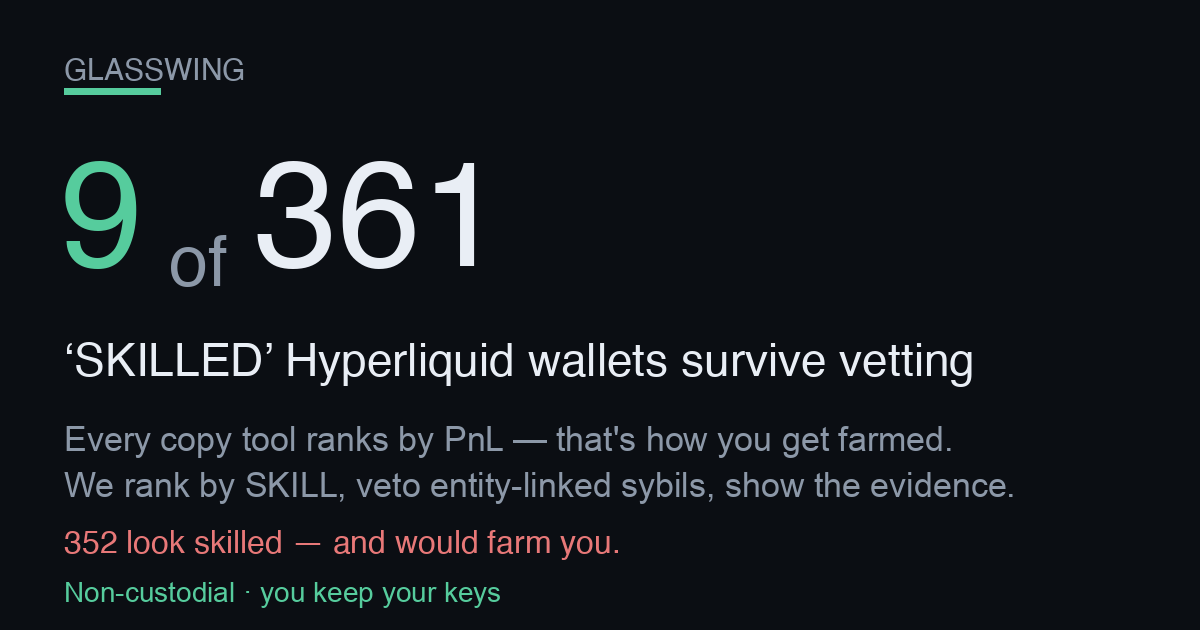
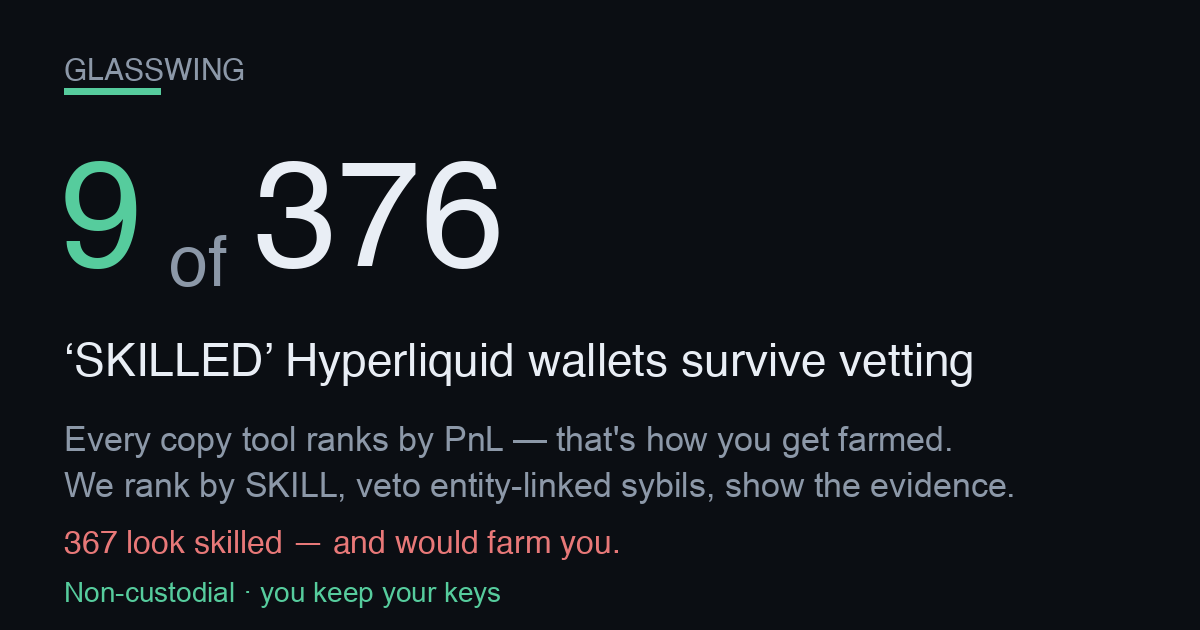
publish funnel 2026-09-11T08:26:30Z

Changed region(s): [[0.2775, 0.2413, 0.4317, 0.4524], [0.0617, 0.8444, 0.0925, 0.8746]]

diff --git a/screener.html b/screener.html
@@ -57,4 +57,4 @@ padding:11px 22px;font-size:15px;font-weight:800;border:1px solid var(--good)}
 footer{margin-top:34px;color:var(--muted);font-size:12px;line-height:1.6;
 border-top:1px solid var(--line);padding-top:16px}
 footer b{color:var(--ink)}
-</style></head><body><div class="wrap"><div class="nav"><a href="./index.html">&larr; Glasswing home</a><span class="sep">|</span><span>Edge Screener</span><span class="sep">|</span><a href="./dex.html">Copy a vetted leader</a></div><div class="hero"><h1>Hyperliquid Edge Screener</h1><div class="sub">Where&rsquo;s the carry, where a maker earns, and what&rsquo;s moving on Hyperliquid &mdash; live, computed from the public API. Bookmark it. Every number below is real and timestamped.</div><div class="stamp">Data as of <b>2026-09-09T12:10:52Z</b> &middot; rendered 2026-09-09T12:10:52Z &middot; 178 perps &middot; 104 HIP-3 (xyz) markets scanned</div></div><h2>Top funding &mdash; the carry table <span class="hint">perps ranked by annualized funding. Positive = longs pay shorts (a delta-neutral short earns it).</span></h2><div class="tblwrap"><table><thead><tr><th>Coin</th><th>Funding / hr</th><th>Annualized</th><th>Who pays</th><th>Open interest</th><th>24h volume</th></tr></thead><tbody><tr><td class="coin">ACE</td><td>-0.0246%</td><td class="neg">-216.0%</td><td><span class="tag shorts">shorts pay</span></td><td>$716K</td><td>$953K</td></tr><tr><td class="coin">GRASS</td><td>+0.0115%</td><td class="pos">+101.0%</td><td><span class="tag longs">longs pay</span></td><td>$12.0M</td><td>$2.7M</td></tr><tr><td class="coin">ANIME<span class="tag thin" title="Low liquidity/OI &mdash; ADL &amp; liquidation risk; funding can flip">&#9888; thin</span></td><td>-0.0095%</td><td class="neg">-83.6%</td><td><span class="tag shorts">shorts pay</span></td><td>$251K</td><td>$193K</td></tr><tr><td class="coin">MINA</td><td>-0.0090%</td><td class="neg">-79.0%</td><td><span class="tag shorts">shorts pay</span></td><td>$3.1M</td><td>$519K</td></tr><tr><td class="coin">VVV</td><td>+0.0090%</td><td class="pos">+78.6%</td><td><span class="tag longs">longs pay</span></td><td>$78.6M</td><td>$155.3M</td></tr><tr><td class="coin">SOPH</td><td>-0.0080%</td><td class="neg">-70.1%</td><td><span class="tag shorts">shorts pay</span></td><td>$1.5M</td><td>$11.2M</td></tr><tr><td class="coin">2Z</td><td>-0.0073%</td><td class="neg">-63.9%</td><td><span class="tag shorts">shorts pay</span></td><td>$1.3M</td><td>$251K</td></tr><tr><td class="coin">ZORA</td><td>-0.0070%</td><td class="neg">-61.3%</td><td><span class="tag shorts">shorts pay</span></td><td>$1.8M</td><td>$829K</td></tr><tr><td class="coin">MEGA</td><td>+0.0063%</td><td class="pos">+55.7%</td><td><span class="tag longs">longs pay</span></td><td>$4.8M</td><td>$2.3M</td></tr><tr><td class="coin">YGG<span class="tag thin" title="Low liquidity/OI &mdash; ADL &amp; liquidation risk; funding can flip">&#9888; thin</span></td><td>-0.0060%</td><td class="neg">-52.3%</td><td><span class="tag shorts">shorts pay</span></td><td>$267K</td><td>$146K</td></tr><tr><td class="coin">GRIFFAIN<span class="tag thin" title="Low liquidity/OI &mdash; ADL &amp; liquidation risk; funding can flip">&#9888; thin</span></td><td>+0.0059%</td><td class="pos">+51.7%</td><td><span class="tag longs">longs pay</span></td><td>$781K</td><td>$24K</td></tr><tr><td class="coin">PURR</td><td>+0.0056%</td><td class="pos">+49.2%</td><td><span class="tag longs">longs pay</span></td><td>$12.0M</td><td>$1.6M</td></tr></tbody></table></div><h2>Widest HIP-3 spreads &mdash; where a maker earns <span class="hint">xyz: markets by impact-price spread vs the ~0.6bps round-trip fee. A resting limit order captures the gap.</span></h2><div class="tblwrap"><table><thead><tr><th>Market</th><th>Spread</th><th>vs 0.6bps fee</th><th>Mid</th><th>24h volume</th></tr></thead><tbody><tr><td class="coin">xyz:BIRD<span class="tag gm">growth</span></td><td>216.2 bps</td><td class="pos">+215.6 bps</td><td>2.5118</td><td>$16K</td></tr><tr><td class="coin">xyz:GIGADEV<span class="tag gm">growth</span></td><td>148.1 bps</td><td class="pos">+147.5 bps</td><td>56.6045</td><td>$340K</td></tr><tr><td class="coin">xyz:MAGS<span class="tag gm">growth</span></td><td>145.1 bps</td><td class="pos">+144.5 bps</td><td>69.4060</td><td>$36K</td></tr><tr><td class="coin">xyz:NCLD<span class="tag gm">growth</span></td><td>124.5 bps</td><td class="pos">+123.9 bps</td><td>25.7545</td><td>$274K</td></tr><tr><td class="coin">xyz:XBI<span class="tag gm">growth</span></td><td>108.9 bps</td><td class="pos">+108.3 bps</td><td>162.2000</td><td>$59K</td></tr><tr><td class="coin">xyz:SHEIN<span class="tag gm">growth</span></td><td>83.1 bps</td><td class="pos">+82.5 bps</td><td>5.1838</td><td>$324K</td></tr><tr><td class="coin">xyz:EBAY<span class="tag gm">growth</span></td><td>69.3 bps</td><td class="pos">+68.7 bps</td><td>104.2200</td><td>$235K</td></tr><tr><td class="coin">xyz:NET<span class="tag gm">growth</span></td><td>62.1 bps</td><td class="pos">+61.5 bps</td><td>293.3300</td><td>$118K</td></tr><tr><td class="coin">xyz:PURRDAT</td><td>54.4 bps</td><td class="pos">+53.8 bps</td><td>12.3275</td><td>$2.0M</td></tr><tr><td class="coin">xyz:BMNR</td><td>53.2 bps</td><td class="pos">+52.6 bps</td><td>25.2335</td><td>$160K</td></tr><tr><td class="coin">xyz:RDDT<span class="tag gm">growth</span></td><td>47.7 bps</td><td class="pos">+47.1 bps</td><td>150.0650</td><td>$187K</td></tr><tr><td class="coin">xyz:SOFTBANK<span class="tag gm">growth</span></td><td>44.3 bps</td><td class="pos">+43.7 bps</td><td>43.5080</td><td>$2.2M</td></tr></tbody></table></div><h2>Momentum &amp; volume &mdash; what&rsquo;s moving <span class="hint">perps by 24h volume with the 24h price change (mark vs prior-day).</span></h2><div class="tblwrap"><table><thead><tr><th>Coin</th><th>24h volume</th><th>24h change</th><th>Mark</th></tr></thead><tbody><tr><td class="coin">BTC</td><td>$2.30B</td><td class="pos">+1.57%</td><td>79,406.00</td></tr><tr><td class="coin">ETH</td><td>$1.09B</td><td class="pos">+1.34%</td><td>2,502.30</td></tr><tr><td class="coin">HYPE</td><td>$402.3M</td><td class="pos">+4.74%</td><td>86.6030</td></tr><tr><td class="coin">ZEC</td><td>$383.6M</td><td class="pos">+10.18%</td><td>1,268.30</td></tr><tr><td class="coin">SOL</td><td>$184.0M</td><td class="pos">+1.82%</td><td>104.3700</td></tr><tr><td class="coin">VVV</td><td>$155.3M</td><td class="pos">+43.86%</td><td>26.9070</td></tr><tr><td class="coin">PONS</td><td>$101.4M</td><td class="pos">+4.38%</td><td>0.77558</td></tr><tr><td class="coin">LIT</td><td>$84.7M</td><td class="pos">+9.27%</td><td>5.1224</td></tr><tr><td class="coin">PUMP</td><td>$75.3M</td><td class="pos">+7.45%</td><td>0.004602</td></tr><tr><td class="coin">NEAR</td><td>$69.9M</td><td class="pos">+14.74%</td><td>2.6111</td></tr><tr><td class="coin">XRP</td><td>$69.3M</td><td class="pos">+2.96%</td><td>1.4290</td></tr><tr><td class="coin">CASHCAT</td><td>$29.5M</td><td class="pos">+5.24%</td><td>0.18534</td></tr></tbody></table></div><div class="cta"><h2>These are the opportunities. Now copy the people who trade them.</h2><p class="lead">Spotting the carry and the spreads is the easy part &mdash; sizing, timing and risk are where most traders bleed. Copy the <b>skill-vetted</b> Hyperliquid leaders who actually trade these edges. Non-custodial: <b>you keep your keys and your funds</b> the entire time.</p><div class="row"><a class="btn" href="./index.html">See the vetted leaders &rarr;</a><a class="btn ghost" href="./dex.html">Start copying (non-custodial) &rarr;</a></div><div class="nc"><b>Non-custodial &amp; honest:</b> we never hold your keys or funds. Copying routes through a <b>0.01%</b> (1bp) on-chain builder fee &mdash; that is the only thing we ever charge, and it is the same fee shown on the copy page. Nothing on this screener is executed for you; it is information only.</div></div><footer><b>Not financial advice.</b> Funding rates, spreads and volumes are live snapshots that change every block; figures can be stale by the time you act. A high funding rate is <b>not free money</b> &mdash; the biggest rates sit on the thinnest, most crowded books (flagged &#9888; thin), where funding can flip against you and auto-deleveraging (ADL) or liquidation can close your position. &ldquo;Spread&rdquo; here is the impact-price spread (a conservative maker signal), not a guaranteed fill. HIP-3 markets are experimental. Do your own research and size responsibly. Glasswing is <b>non-custodial</b> &mdash; we never take custody of your keys or funds.</footer></div></body></html>
+</style></head><body><div class="wrap"><div class="nav"><a href="./index.html">&larr; Glasswing home</a><span class="sep">|</span><span>Edge Screener</span><span class="sep">|</span><a href="./dex.html">Copy a vetted leader</a></div><div class="hero"><h1>Hyperliquid Edge Screener</h1><div class="sub">Where&rsquo;s the carry, where a maker earns, and what&rsquo;s moving on Hyperliquid &mdash; live, computed from the public API. Bookmark it. Every number below is real and timestamped.</div><div class="stamp">Data as of <b>2026-09-11T08:21:07Z</b> &middot; rendered 2026-09-11T08:21:07Z &middot; 178 perps &middot; 104 HIP-3 (xyz) markets scanned</div></div><h2>Top funding &mdash; the carry table <span class="hint">perps ranked by annualized funding. Positive = longs pay shorts (a delta-neutral short earns it).</span></h2><div class="tblwrap"><table><thead><tr><th>Coin</th><th>Funding / hr</th><th>Annualized</th><th>Who pays</th><th>Open interest</th><th>24h volume</th></tr></thead><tbody><tr><td class="coin">ANIME<span class="tag thin" title="Low liquidity/OI &mdash; ADL &amp; liquidation risk; funding can flip">&#9888; thin</span></td><td>-0.0330%</td><td class="neg">-288.7%</td><td><span class="tag shorts">shorts pay</span></td><td>$370K</td><td>$312K</td></tr><tr><td class="coin">YGG<span class="tag thin" title="Low liquidity/OI &mdash; ADL &amp; liquidation risk; funding can flip">&#9888; thin</span></td><td>-0.0094%</td><td class="neg">-82.2%</td><td><span class="tag shorts">shorts pay</span></td><td>$249K</td><td>$76K</td></tr><tr><td class="coin">ACE</td><td>-0.0067%</td><td class="neg">-58.5%</td><td><span class="tag shorts">shorts pay</span></td><td>$569K</td><td>$328K</td></tr><tr><td class="coin">HEMI</td><td>-0.0055%</td><td class="neg">-48.2%</td><td><span class="tag shorts">shorts pay</span></td><td>$1.3M</td><td>$1.1M</td></tr><tr><td class="coin">TRUMP</td><td>-0.0048%</td><td class="neg">-42.1%</td><td><span class="tag shorts">shorts pay</span></td><td>$12.5M</td><td>$6.9M</td></tr><tr><td class="coin">XMR</td><td>+0.0044%</td><td class="pos">+38.7%</td><td><span class="tag longs">longs pay</span></td><td>$69.0M</td><td>$19.7M</td></tr><tr><td class="coin">SOPH</td><td>-0.0042%</td><td class="neg">-36.9%</td><td><span class="tag shorts">shorts pay</span></td><td>$782K</td><td>$692K</td></tr><tr><td class="coin">PONS</td><td>+0.0037%</td><td class="pos">+32.1%</td><td><span class="tag longs">longs pay</span></td><td>$98.8M</td><td>$105.2M</td></tr><tr><td class="coin">STX</td><td>-0.0036%</td><td class="neg">-31.7%</td><td><span class="tag shorts">shorts pay</span></td><td>$1.1M</td><td>$276K</td></tr><tr><td class="coin">MOVE<span class="tag thin" title="Low liquidity/OI &mdash; ADL &amp; liquidation risk; funding can flip">&#9888; thin</span></td><td>-0.0036%</td><td class="neg">-31.6%</td><td><span class="tag shorts">shorts pay</span></td><td>$274K</td><td>$192K</td></tr><tr><td class="coin">ZORA</td><td>-0.0032%</td><td class="neg">-28.1%</td><td><span class="tag shorts">shorts pay</span></td><td>$1.5M</td><td>$455K</td></tr><tr><td class="coin">ALT<span class="tag thin" title="Low liquidity/OI &mdash; ADL &amp; liquidation risk; funding can flip">&#9888; thin</span></td><td>-0.0031%</td><td class="neg">-27.4%</td><td><span class="tag shorts">shorts pay</span></td><td>$798K</td><td>$90K</td></tr></tbody></table></div><h2>Widest HIP-3 spreads &mdash; where a maker earns <span class="hint">xyz: markets by impact-price spread vs the ~0.6bps round-trip fee. A resting limit order captures the gap.</span></h2><div class="tblwrap"><table><thead><tr><th>Market</th><th>Spread</th><th>vs 0.6bps fee</th><th>Mid</th><th>24h volume</th></tr></thead><tbody><tr><td class="coin">xyz:BIRD<span class="tag gm">growth</span></td><td>240.1 bps</td><td class="pos">+239.5 bps</td><td>2.4232</td><td>$61K</td></tr><tr><td class="coin">xyz:GIGADEV<span class="tag gm">growth</span></td><td>153.1 bps</td><td class="pos">+152.5 bps</td><td>54.6050</td><td>$303K</td></tr><tr><td class="coin">xyz:NCLD<span class="tag gm">growth</span></td><td>90.6 bps</td><td class="pos">+90.0 bps</td><td>24.2995</td><td>$174K</td></tr><tr><td class="coin">xyz:SHEIN<span class="tag gm">growth</span></td><td>89.1 bps</td><td class="pos">+88.5 bps</td><td>5.0979</td><td>$523K</td></tr><tr><td class="coin">xyz:NET<span class="tag gm">growth</span></td><td>88.0 bps</td><td class="pos">+87.4 bps</td><td>315.0000</td><td>$427K</td></tr><tr><td class="coin">xyz:XBI<span class="tag gm">growth</span></td><td>78.0 bps</td><td class="pos">+77.4 bps</td><td>157.7450</td><td>$33K</td></tr><tr><td class="coin">xyz:KR200<span class="tag gm">growth</span></td><td>69.2 bps</td><td class="pos">+68.6 bps</td><td>1,089.90</td><td>$498K</td></tr><tr><td class="coin">xyz:SHAZ<span class="tag gm">growth</span></td><td>69.1 bps</td><td class="pos">+68.5 bps</td><td>56.2285</td><td>$1.3M</td></tr><tr><td class="coin">xyz:PURRDAT</td><td>63.9 bps</td><td class="pos">+63.3 bps</td><td>11.1315</td><td>$5.6M</td></tr><tr><td class="coin">xyz:ZM<span class="tag gm">growth</span></td><td>63.0 bps</td><td class="pos">+62.4 bps</td><td>96.3710</td><td>$77K</td></tr><tr><td class="coin">xyz:RDDT<span class="tag gm">growth</span></td><td>59.5 bps</td><td class="pos">+58.9 bps</td><td>155.3300</td><td>$190K</td></tr><tr><td class="coin">xyz:LYTE<span class="tag gm">growth</span></td><td>53.7 bps</td><td class="pos">+53.1 bps</td><td>24.9330</td><td>$100K</td></tr></tbody></table></div><h2>Momentum &amp; volume &mdash; what&rsquo;s moving <span class="hint">perps by 24h volume with the 24h price change (mark vs prior-day).</span></h2><div class="tblwrap"><table><thead><tr><th>Coin</th><th>24h volume</th><th>24h change</th><th>Mark</th></tr></thead><tbody><tr><td class="coin">BTC</td><td>$2.14B</td><td class="neg">-1.19%</td><td>77,206.00</td></tr><tr><td class="coin">ETH</td><td>$1.13B</td><td class="neg">-0.26%</td><td>2,467.10</td></tr><tr><td class="coin">HYPE</td><td>$638.0M</td><td class="neg">-3.99%</td><td>80.0170</td></tr><tr><td class="coin">ZEC</td><td>$613.4M</td><td class="neg">-9.26%</td><td>1,108.90</td></tr><tr><td class="coin">SOL</td><td>$218.4M</td><td class="neg">-1.63%</td><td>99.6100</td></tr><tr><td class="coin">PONS</td><td>$105.2M</td><td class="pos">+4.33%</td><td>0.647675</td></tr><tr><td class="coin">PUMP</td><td>$98.5M</td><td class="neg">-6.49%</td><td>0.0037</td></tr><tr><td class="coin">XRP</td><td>$83.2M</td><td class="neg">-2.23%</td><td>1.3510</td></tr><tr><td class="coin">NEAR</td><td>$61.4M</td><td class="pos">+0.35%</td><td>2.4438</td></tr><tr><td class="coin">LIT</td><td>$50.0M</td><td class="pos">+0.05%</td><td>4.5268</td></tr><tr><td class="coin">VVV</td><td>$33.4M</td><td class="neg">-1.04%</td><td>24.1350</td></tr><tr><td class="coin">ETHFI</td><td>$22.7M</td><td class="pos">+7.06%</td><td>0.6661</td></tr></tbody></table></div><div class="cta"><h2>These are the opportunities. Now copy the people who trade them.</h2><p class="lead">Spotting the carry and the spreads is the easy part &mdash; sizing, timing and risk are where most traders bleed. Copy the <b>skill-vetted</b> Hyperliquid leaders who actually trade these edges. Non-custodial: <b>you keep your keys and your funds</b> the entire time.</p><div class="row"><a class="btn" href="./index.html">See the vetted leaders &rarr;</a><a class="btn ghost" href="./dex.html">Start copying (non-custodial) &rarr;</a></div><div class="nc"><b>Non-custodial &amp; honest:</b> we never hold your keys or funds. Copying routes through a <b>0.01%</b> (1bp) on-chain builder fee &mdash; that is the only thing we ever charge, and it is the same fee shown on the copy page. Nothing on this screener is executed for you; it is information only.</div></div><footer><b>Not financial advice.</b> Funding rates, spreads and volumes are live snapshots that change every block; figures can be stale by the time you act. A high funding rate is <b>not free money</b> &mdash; the biggest rates sit on the thinnest, most crowded books (flagged &#9888; thin), where funding can flip against you and auto-deleveraging (ADL) or liquidation can close your position. &ldquo;Spread&rdquo; here is the impact-price spread (a conservative maker signal), not a guaranteed fill. HIP-3 markets are experimental. Do your own research and size responsibly. Glasswing is <b>non-custodial</b> &mdash; we never take custody of your keys or funds.</footer></div></body></html>

diff --git a/track.html b/track.html
@@ -62,35 +62,35 @@ font-weight:600;font-size:14px}
 <div class="wrap">
   <div class="hero">
     <h1>Self-verifying on-chain track record</h1>
-    <div class="big">$121.54</div>
+    <div class="big">$126.41</div>
     <div class="sub">current on-chain equity (perp + vault + spot USDC)</div>
     <div class="addr">0xbe6C1b09662BbE52CC93279D103Feb27985DdBc1</div>
-    <div class="stage building">52 days live — BUILDING</div>
+    <div class="stage building">54 days live — BUILDING</div>
   </div>
 
   
 
   <h2>On-chain figures <span style="color:var(--muted);font-weight:400;font-size:13px">
   &mdash; every one reproducible from the public info API</span></h2>
-  <table><tbody><tr><td class="k">On-chain equity (perp + vault + spot USDC)</td><td class="v">$121.54</td></tr><tr><td class="k">Perp account value</td><td class="v">$121.38</td></tr><tr><td class="k">Vault equity</td><td class="v">$0.17</td></tr><tr><td class="k">Spot USDC</td><td class="v">$0.00</td></tr><tr><td class="k">Withdrawable</td><td class="v">$40.47</td></tr></tbody></table>
+  <table><tbody><tr><td class="k">On-chain equity (perp + vault + spot USDC)</td><td class="v">$126.41</td></tr><tr><td class="k">Perp account value</td><td class="v">$126.24</td></tr><tr><td class="k">Vault equity</td><td class="v">$0.17</td></tr><tr><td class="k">Spot USDC</td><td class="v">$0.00</td></tr><tr><td class="k">Withdrawable</td><td class="v">$47.93</td></tr></tbody></table>
 
-  <h2>Vault deposits (on-chain)</h2><table><thead><tr><th>Vault address</th><th>Our equity</th></tr></thead><tbody><tr><td class="mono">0x2431edfcb662e6ff6deab113cc91878a0b53fb0f</td><td class="v">$0.01</td></tr><tr><td class="mono">0x697bc3dd77539fa84156d0e1c95287ea5524fd6b</td><td class="v">$0.00</td></tr><tr><td class="mono">0x8825e6ed11c7f9c0874579c9f4bba192b9e81c8f</td><td class="v">$0.13</td></tr><tr><td class="mono">0xc71f5a493b937e4b1798b86510630336a6dfd804</td><td class="v">$0.03</td></tr></tbody></table>
+  <h2>Vault deposits (on-chain)</h2><table><thead><tr><th>Vault address</th><th>Our equity</th></tr></thead><tbody><tr><td class="mono">0x2431edfcb662e6ff6deab113cc91878a0b53fb0f</td><td class="v">$0.01</td></tr><tr><td class="mono">0x697bc3dd77539fa84156d0e1c95287ea5524fd6b</td><td class="v">$0.00</td></tr><tr><td class="mono">0x8825e6ed11c7f9c0874579c9f4bba192b9e81c8f</td><td class="v">$0.13</td></tr><tr><td class="mono">0xc71f5a493b937e4b1798b86510630336a6dfd804</td><td class="v">$0.04</td></tr></tbody></table>
 
   <h2>Performance <span style="color:var(--muted);font-weight:400;font-size:13px">
   &mdash; honest stage, no annualization</span></h2>
-  <table><tbody><tr><td class="k">Days live (our formal record)</td><td class="v">52</td></tr><tr><td class="k">Maturity</td><td class="v">BUILDING</td></tr><tr><td class="k">Current real strategy income / day</td><td class="v">$0.1034</td></tr><tr><td class="k">Cumulative net income (if attributed)</td><td class="v">$37.5104</td></tr><tr><td class="k">Annualized APR</td><td class="v">shown per-day above</td></tr></tbody></table>
+  <table><tbody><tr><td class="k">Days live (our formal record)</td><td class="v">54</td></tr><tr><td class="k">Maturity</td><td class="v">BUILDING</td></tr><tr><td class="k">Current real strategy income / day</td><td class="v">$0.0985</td></tr><tr><td class="k">Cumulative net income (if attributed)</td><td class="v">$37.5542</td></tr><tr><td class="k">Annualized APR</td><td class="v">shown per-day above</td></tr></tbody></table>
 
   <h2>Strategy arms <span style="color:var(--muted);font-weight:400;font-size:13px">
   &mdash; internal marks, cross-checkable against chain equity</span></h2>
-  <table><thead><tr><th>Arm</th><th>Status</th><th>Real / day</th><th>Note</th></tr></thead><tbody><tr><td class="v">carry</td><td><span class="badge live">live</span></td><td class="v">$0.1034</td><td class="k"></td></tr><tr><td class="v">copy</td><td><span class="badge live">live</span></td><td class="v">$0.0000</td><td class="k"></td></tr><tr><td class="v">builder</td><td><span class="badge off">—</span></td><td class="v">$0.0000</td><td class="k">proven live; $0 until distributed (∝ users&#x27; volume)</td></tr></tbody></table>
+  <table><thead><tr><th>Arm</th><th>Status</th><th>Real / day</th><th>Note</th></tr></thead><tbody><tr><td class="v">carry</td><td><span class="badge live">live</span></td><td class="v">$0.0985</td><td class="k"></td></tr><tr><td class="v">copy</td><td><span class="badge live">live</span></td><td class="v">$0.0000</td><td class="k"></td></tr><tr><td class="v">builder</td><td><span class="badge off">—</span></td><td class="v">$0.0000</td><td class="k">proven live; $0 until distributed (∝ users&#x27; volume)</td></tr></tbody></table>
 
   <h2>Reproduce it</h2>
   <div class="verify"><h3>Verify this yourself</h3><p>These are PUBLIC calls. Run them yourself against the address below and you will re-derive every on-chain figure on this page. equity_usd = perp accountValue + vault equity + spot USDC. Endpoint: https://api.hyperliquid.xyz/info</p><div class="cn">clearinghouseState &rarr; marginSummary.accountValue (perp value), withdrawable, marginSummary.totalMarginUsed</div><pre>curl -s -X POST https://api.hyperliquid.xyz/info -H &#x27;Content-Type: application/json&#x27; -d &#x27;{&quot;type&quot;: &quot;clearinghouseState&quot;, &quot;user&quot;: &quot;0xbe6C1b09662BbE52CC93279D103Feb27985DdBc1&quot;}&#x27;</pre><div class="cn">userVaultEquities &rarr; sum of each entry&#x27;s equity (our vault deposits)</div><pre>curl -s -X POST https://api.hyperliquid.xyz/info -H &#x27;Content-Type: application/json&#x27; -d &#x27;{&quot;type&quot;: &quot;userVaultEquities&quot;, &quot;user&quot;: &quot;0xbe6C1b09662BbE52CC93279D103Feb27985DdBc1&quot;}&#x27;</pre><div class="cn">spotClearinghouseState &rarr; balances[] where coin==USDC -&gt; total (spot USDC)</div><pre>curl -s -X POST https://api.hyperliquid.xyz/info -H &#x27;Content-Type: application/json&#x27; -d &#x27;{&quot;type&quot;: &quot;spotClearinghouseState&quot;, &quot;user&quot;: &quot;0xbe6C1b09662BbE52CC93279D103Feb27985DdBc1&quot;}&#x27;</pre></div>
 
   <footer>
     <div>Self-verifying: every on-chain figure is reproducible by querying Hyperliquid&#x27;s public info API for the stated address. Internal daily marks are cross-checkable against on-chain equity. EARLY-STAGE record — not a mature track record, not an APR promise, not financial advice. Past performance != future results.</div>
-    <div class="stamp">Generated at 2026-09-09T12:08:45Z &middot; internal marks
-    mtime 2026-09-09T07:34:44Z &middot; static receipt, no live
+    <div class="stamp">Generated at 2026-09-11T08:17:49Z &middot; internal marks
+    mtime 2026-09-11T07:36:24Z &middot; static receipt, no live
     authority — this page never trades or arms.</div>
   </footer>
 </div>

diff --git a/index.html b/index.html
@@ -3,8 +3,8 @@
 <head>
 <meta charset="utf-8">
 <meta name="viewport" content="width=device-width, initial-scale=1">
-<title>9 of 361 SKILLED Hyperliquid wallets survive vetting</title>
-<meta name="description" content="9 of 361 leaderboard-SKILLED Hyperliquid wallets survive vetting. Copy only the survivors, non-custodial — you keep your keys and funds.">
+<title>9 of 376 SKILLED Hyperliquid wallets survive vetting</title>
+<meta name="description" content="9 of 376 leaderboard-SKILLED Hyperliquid wallets survive vetting. Copy only the survivors, non-custodial — you keep your keys and funds.">
 <link rel="canonical" href="https://dynobit.github.io/glasswing/">
 <meta name="robots" content="index,follow">
 <meta name="theme-color" content="#0b0e13">
@@ -14,14 +14,14 @@
      head, not this. og:url is the canonical Pages home so every share resolves here. -->
 <meta property="og:type" content="website">
 <meta property="og:site_name" content="Glasswing">
-<meta property="og:title" content="9 of 361 SKILLED Hyperliquid wallets survive vetting">
+<meta property="og:title" content="9 of 376 SKILLED Hyperliquid wallets survive vetting">
 <meta property="og:description" content="Every copy tool ranks leaders by PnL — which is how you get farmed. This ranks by SKILL, then vetoes entity-linked sybils, and shows the evidence for every reject. Non-custodial: you keep your keys.">
 <meta property="og:url" content="https://dynobit.github.io/glasswing/">
 <meta property="og:image" content="https://dynobit.github.io/glasswing/og-card.png">
 <meta property="og:image:width" content="1200">
 <meta property="og:image:height" content="630">
 <meta name="twitter:card" content="summary_large_image">
-<meta name="twitter:title" content="9 of 361 SKILLED Hyperliquid wallets survive vetting">
+<meta name="twitter:title" content="9 of 376 SKILLED Hyperliquid wallets survive vetting">
 <meta name="twitter:description" content="Skill-ranked (not PnL-ranked) HL copy-leaders, entity-linked sybils vetoed with evidence. Non-custodial.">
 <meta name="twitter:image" content="https://dynobit.github.io/glasswing/og-card.png">
 <style>
@@ -135,18 +135,18 @@ footer .nc{color:var(--good);font-weight:600}
 
   <!-- 1. HERO — the shareable hook (screenshot-worthy) -->
   <div class="hero">
-    <h1><span class="big">9 of 361</span> &lsquo;SKILLED&rsquo;
+    <h1><span class="big">9 of 376</span> &lsquo;SKILLED&rsquo;
     Hyperliquid wallets survive vetting</h1>
-    <div class="sub">The other <span class="trap">352</span> look skilled on a
+    <div class="sub">The other <span class="trap">367</span> look skilled on a
     raw copy leaderboard but would farm you &mdash; here are the
-    <span class="trap">352</span> that would. Entity-linked sybils,
-    wash-traded track records, or simply unscreened. 2.5% survive.
-    Universe: 3413 scored wallets.</div>
+    <span class="trap">367</span> that would. Entity-linked sybils,
+    wash-traded track records, or simply unscreened. 2.4% survive.
+    Universe: 3542 scored wallets.</div>
   </div>
 
   <!-- 2. THE WEDGE — the marketing (why us, not any other copy tool) -->
   <div class="wedge"><span class="them">Every other copy tool ranks all
-    361 by PnL and calls it a leaderboard.</span> We are the only one that
+    376 by PnL and calls it a leaderboard.</span> We are the only one that
     <b>flags the entity-linked and farming wallets with on-chain evidence</b> &mdash;
     transfer-graph linkage between wallets and arXiv memecoin farm-features &mdash;
     and shows you only the 9 that survive. A high PnL is exactly what a
@@ -268,7 +268,7 @@ footer .nc{color:var(--good);font-weight:600}
   <footer>
     <div class="nc">Non-custodial: we never hold your keys or funds. No server, no backend. Your browser talks only to Hyperliquid&#x27;s public API.</div>
     <div>Advisory. Skill = sign-randomization null vs luck. Entity veto = public transfer-graph linkage. Farm screen = arXiv:2601.08641 features (memecoin thresholds, HL-uncalibrated). Follower-realizable PnL is NOT yet proven — a PRE-COMMITTED forward test is in progress (0/2 windows, earliest 2026-08-13); the copyability claim publishes only when the pre-registered windows close, so it cannot be discovery-mined. Exit-alpha shown is advisory. Not financial advice.</div>
-    <div class="stamp">Generated at 2026-09-09T12:09:17Z &middot; single-file funnel,
+    <div class="stamp">Generated at 2026-09-11T08:18:47Z &middot; single-file funnel,
     no live authority. In-browser order signing is IMPLEMENTED (real secp256k1 +
     keccak + msgpack EIP-712 from a pinned CDN) but UNVALIDATED against Hyperliquid:
     mainnet is blocked until a testnet order is proven accepted.</div>

diff --git a/dex.html b/dex.html
@@ -112,8 +112,8 @@ footer .nc{color:var(--good);font-weight:600}
     funds and your keys the whole time. Two signatures in your own wallet, an
     ephemeral in-browser agent key that can trade but never withdraw, and a
     client-side loop that mirrors only the
-    <b>9 of 361</b> vetted survivors
-    (universe: 3413 scored wallets). No server, no backend.</div>
+    <b>9 of 376</b> vetted survivors
+    (universe: 3542 scored wallets). No server, no backend.</div>
     <div class="tag">static bundle &middot; IPFS-publishable &middot; revenue accrues on-chain</div>
   </div>
 
@@ -217,7 +217,7 @@ footer .nc{color:var(--good);font-weight:600}
   <footer>
     <div class="nc">Pure DEX, self-custodial. No server, no backend, no key we ever hold. Your browser talks only to Hyperliquid&#x27;s public API.</div>
     <div>Advisory. Skill = sign-randomization null vs luck. Entity veto = public transfer-graph linkage. Farm screen = arXiv:2601.08641 features (memecoin thresholds, HL-uncalibrated). Follower-realizable PnL is NOT yet proven — a PRE-COMMITTED forward test is in progress (0/2 windows, earliest 2026-08-13); the copyability claim publishes only when the pre-registered windows close, so it cannot be discovery-mined. Exit-alpha shown is advisory. Not financial advice.</div>
-    <div class="stamp">Generated at 2026-09-09T12:09:17Z &middot; static,
+    <div class="stamp">Generated at 2026-09-11T08:18:47Z &middot; static,
     self-custodial surface, no live authority. In-browser order signing is
     IMPLEMENTED (real secp256k1 + keccak + msgpack EIP-712 from a pinned CDN) but
     UNVALIDATED against Hyperliquid: mainnet is blocked until a testnet order is
